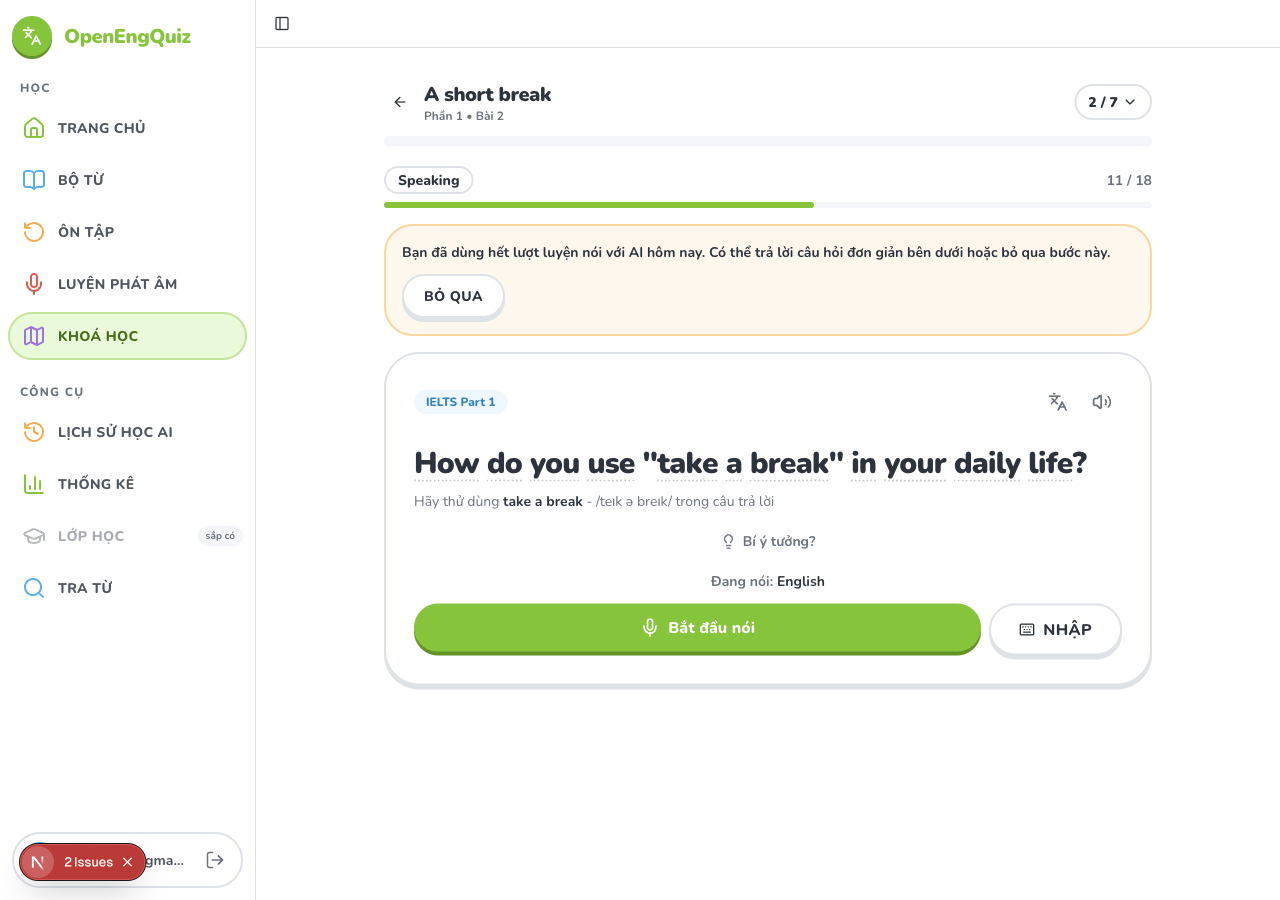
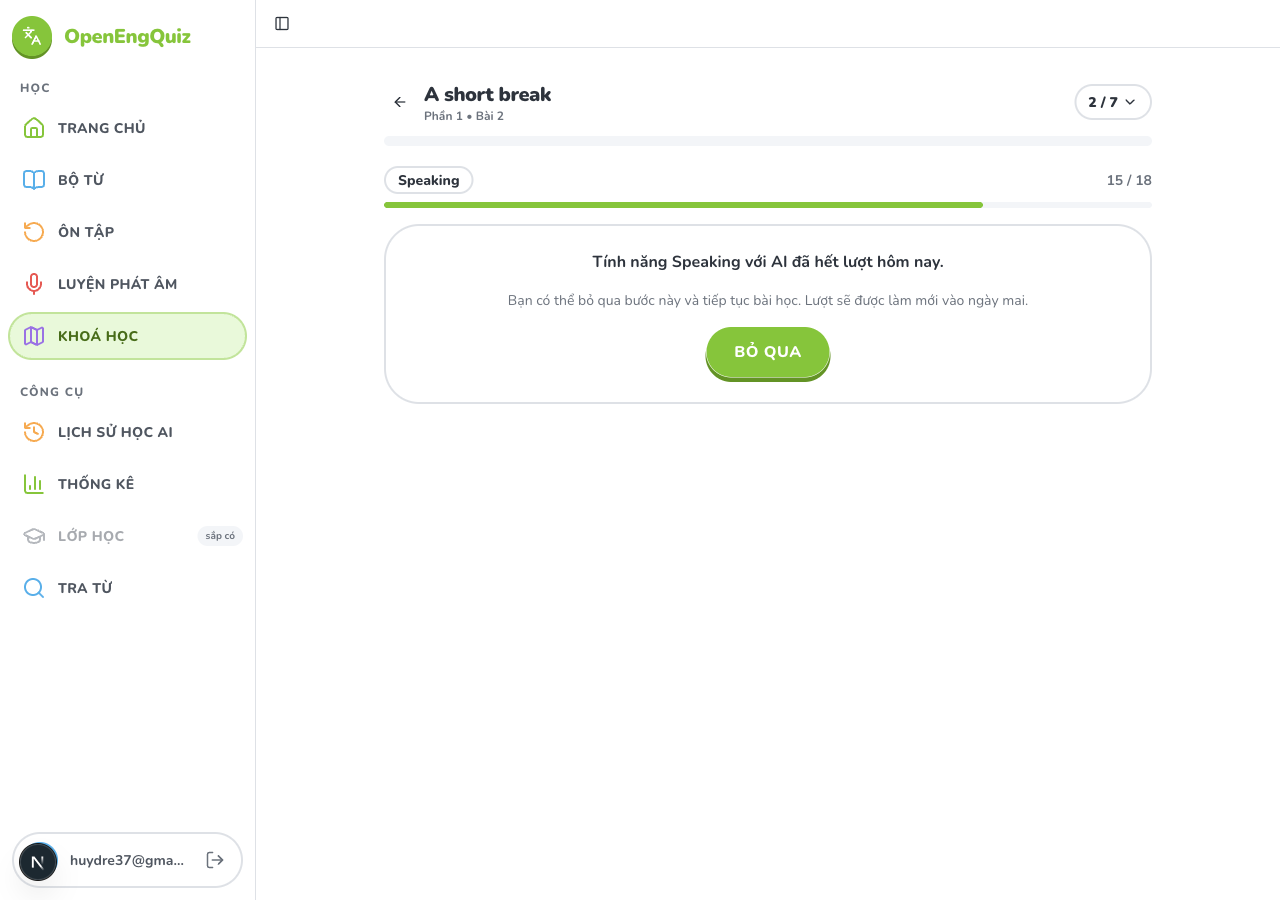
fix(course): quota-limited speaking steps show the limit notice with skip only

diff --git a/src/components/courses/course-v2-vocabulary.tsx b/src/components/courses/course-v2-vocabulary.tsx
@@ -907,14 +907,18 @@ function WordSpeakingPhase({ lessonId, step, cards, state, speech, ai, tone, pos
   if (!question) return <LogoLoader label={`Đang tạo câu hỏi Speaking cho từ "${card.term}"...`} />;
 
   const skip = () => onSkip({ index: slot + 1, results: { ...state.results, [card.id]: {} } });
+  // Out of AI speaking quota: like the reference flow, explain the limit and offer Skip only.
+  if (limited) {
+    return (
+      <div className="bg-card space-y-4 rounded-3xl border-2 p-6 text-center">
+        <p className="font-bold">Tính năng Speaking với AI đã hết lượt hôm nay.</p>
+        <p className="text-muted-foreground text-sm">Bạn có thể bỏ qua bước này và tiếp tục bài học. Lượt sẽ được làm mới vào ngày mai.</p>
+        <Button type="button" size="lg" disabled={busy} onClick={skip}>Bỏ qua</Button>
+      </div>
+    );
+  }
   return (
     <div className="space-y-4">
-    {limited ? (
-      <div className="border-accent/50 bg-accent/10 flex flex-wrap items-center justify-between gap-3 rounded-2xl border-2 p-4">
-        <p className="text-sm font-bold">Bạn đã dùng hết lượt luyện nói với AI hôm nay. Có thể trả lời câu hỏi đơn giản bên dưới hoặc bỏ qua bước này.</p>
-        <Button type="button" variant="outline" disabled={busy} onClick={skip}>Bỏ qua</Button>
-      </div>
-    ) : null}
     <CourseV2Speaking
       key={`${card.id}-${step}`}
       lessonId={lessonId}
